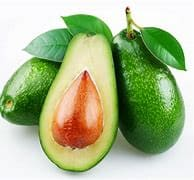
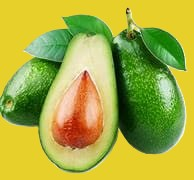
Add get to know your fruits section.

diff --git a/src/index.css b/src/index.css
@@ -28,6 +28,7 @@
 
 body {
   font-family: var(--font-asul);
+  -webkit-padding-before: 7vh;
   padding-block-start: 7vh;
 }
 
@@ -252,8 +253,10 @@ section:nth-of-type(5) img {
 
 section:nth-of-type(6) {
   background-color: var(--yellow);
+  margin-block: 0;
 }
-section:nth-of-type(6) article p{
+
+section:nth-of-type(6) article p {
   color: var(--black);
   text-shadow: 0 1px var(--dark-yellow);
 }
@@ -262,6 +265,7 @@ section:nth-of-type(2),
 section:nth-of-type(3),
 section:nth-of-type(4),
 section:nth-of-type(5) {
+  position: -webkit-sticky;
   position: sticky;
   top: -120px;
   z-index: -1;
@@ -272,6 +276,19 @@ section:nth-of-type(4),
 section:nth-of-type(5),
 section:nth-of-type(6) {
   box-shadow: 0 -1px 9px #555;
+}
+
+section.cardblock {
+  background-color: var(--white);
+  margin-block: 0;
+  min-height: 100vh;
+  padding-block: 5rem;
+
+}
+
+section.cardblock img {
+  filter: none;
+  -webkit-filter: none;
 }
 
 
@@ -411,12 +428,171 @@ section:nth-of-type(6) {
     max-width: 45ch;
   }
 
-  section:nth-of-type(2) {
+  section:nth-of-type(2),
+  section:nth-of-type(4),
+  section:nth-of-type(6) {
     flex-direction: row;
   }
 
-  section:nth-of-type(4) {
+  section:nth-of-type(6) img {
+    mix-blend-mode: darken;
+  }
+
+  section.cardblock {
+    display: flex;
+    flex-direction: column;
+    align-items: flex-start;
+    gap: 2rem;
+    padding-top: 9rem;
+  }
+
+  .cardblock h2 {
+    max-width: fit-content;
+    color: var(--bgColor);
+    text-shadow: 2px 5px 0px var(--bgColor1);
+  }
+
+  section.cardblock .cards {
+    display: flex;
     flex-direction: row;
+    flex-wrap: wrap;
+    justify-content: space-between;
+    gap: 1.5rem;
+  }
+
+  .card {
+    flex-basis: 45%;
+    padding-inline: 2rem;
+    border-radius: 25px;
+    -webkit-border-radius: 25px;
+    -moz-border-radius: 25px;
+    -ms-border-radius: 25px;
+    -o-border-radius: 25px;
+    display: flex;
+    flex-direction: column;
+    align-items: center;
+    background-color: white;
+    box-shadow: -2px 0px 3px #ccc, 2px 0px 3px #ccc;
+    gap: 1rem;
+    background-color: var(--bgColor1);
+    margin-block: 5rem;
+    position: relative;
+
+  }
+
+  .card .img {
+    height: 150px;
+    width: 150px;
+    border-radius: 50%;
+    -webkit-border-radius: 50%;
+    -moz-border-radius: 50%;
+    -ms-border-radius: 50%;
+    -o-border-radius: 50%;
+    position: relative;
+    top: -85px;
+    box-shadow: -0px 0px 0px 10px var(--white);
+    display: flex;
+    align-items: center;
+    justify-content: center;
+  }
+
+  .img::before {
+    content: '';
+    position: absolute;
+    height: 30px;
+    width: 30px;
+    top: 85px;
+    left: -32px;
+    border-top-right-radius: 25px;
+    background-color: transparent;
+    box-shadow: 5px -4px 0px var(--white);
+  }
+
+  .img::after {
+    content: '';
+    position: absolute;
+    height: 30px;
+    width: 30px;
+    top: 85px;
+    right: -32px;
+    border-top-left-radius: 25px;
+    background-color: transparent;
+    box-shadow: -5px -4px 0px var(--white);
+  }
+
+  .card .img img {
+    height: 150px;
+    width: 150px;
+    -o-object-fit: cover;
+    object-fit: cover;
+    margin: 0;
+    border: 3px solid var(--bgColor);
+    border-radius: 50%;
+    -webkit-border-radius: 50%;
+    -moz-border-radius: 50%;
+    -ms-border-radius: 50%;
+    -o-border-radius: 50%;
+  }
+
+  .card p {
+    line-height: 1.6rem;
+    word-spacing: 2px;
+    letter-spacing: 1.4px;
+    transform: translateY(-25%);
+    -webkit-transform: translateY(-25%);
+    -moz-transform: translateY(-25%);
+    -ms-transform: translateY(-25%);
+    -o-transform: translateY(-25%);
+    font-family: var(--font-unkempt);
+  }
+
+  .card h4 {
+    margin-top: auto;
+    background-color: var(--yellow);
+    box-shadow: 0 0 0 7px var(--white);
+    height: 40px;
+    display: grid;
+    place-items: center;
+    padding-inline: 2rem;
+    border-radius: 10px;
+    -webkit-border-radius: 10px;
+    -moz-border-radius: 10px;
+    -ms-border-radius: 10px;
+    -o-border-radius: 10px;
+    transform: translateY(50%);
+    -webkit-transform: translateY(50%);
+    -moz-transform: translateY(50%);
+    -ms-transform: translateY(50%);
+    -o-transform: translateY(50%);
+    font-family: var(--font-rubik);
+    color: var(--deep-green);
+    letter-spacing: 3px;
+    text-transform: uppercase;
+    position: relative;
+  }
+
+  .card h4::before {
+    content: '';
+    position: absolute;
+    background-color: transparent;
+    top: 1px;
+    left: -28px;
+    height: 20px;
+    width: 20px;
+    border-bottom-right-radius: 15px;
+    box-shadow: 5px 5px var(--white);
+  }
+
+  .card h4::after {
+    content: '';
+    position: absolute;
+    background-color: transparent;
+    top: 1px;
+    right: -28px;
+    height: 20px;
+    width: 20px;
+    border-bottom-left-radius: 15px;
+    box-shadow: -5px 5px var(--white);
   }
 
 }

diff --git a/src/constants/index.js b/src/constants/index.js
@@ -31,3 +31,22 @@ export const SECTION_SIX_PARAGRAPHS = [
   "Cooking your fruities is like giving them a mild makeover. It breaks down the troublesome proteins, making them safe for you to enjoy. Always be a label detective—sneaky fruities can hide in juices and snacks, just waiting to pounce.",
   "Finally, think of an epinephrine auto-injector as your trusty sidekick, ready to save the day if things go south. Let your friends and family know about your allergies, so they can help keep you safe. With these tips, you can enjoy a healthy diet without fear.",
 ];
+
+export const CardBlockText = {
+  avocado:
+    "Avocados are nutrient-dense fruities rich in healthy monounsaturated fats, which are beneficial for heart health. They also provide a good amount of fiber, vitamins (especially vitamin K, C, E, and several B vitamins), and minerals like potassium. Their creamy texture makes them perfect for spreads, salads, and smoothies. Plus, they have antioxidants that can help fight inflammation.",
+  banana:
+    "Bananas are a quick and nutritious snack, rich in potassium, which helps regulate blood pressure. They also provide vitamins C and B6, along with dietary fiber. Bananas support digestion, boost energy levels, and can aid in muscle recovery post-exercise. Their natural sugars make them a perfect ingredient for smoothies, cereals, and baked goods.",
+  watermelon:
+    "Watermelon is a hydrating fruity composed of over 90% water. It's rich in vitamins A and C, as well as antioxidants like lycopene, which supports heart health. Watermelon can improve hydration, promote healthy skin, and aid digestion. Enjoy it fresh, in salads, or as a refreshing juice.",
+  pawpaw:
+    "Pawpaw, or papaya, is a tropical fruity rich in vitamin C, vitamin A, and folate. It contains the enzyme papain, which aids digestion. Pawpaw supports immune function, promotes healthy skin, and can improve digestion. It's delicious when eaten fresh, in smoothies, or as part of a fruity salad.",
+  orange:
+    "Oranges are citrus fruities loaded with vitamin C, essential for immune health. They provide dietary fiber and antioxidants, which help reduce inflammation. Oranges support heart health, improve skin texture, and can lower cholesterol levels. They're perfect as a snack, in salads, or juiced.",
+  dates:
+    "Dates are sweet fruities high in natural sugars, fiber, and essential minerals like potassium, magnesium, and copper. They support digestive health, provide energy, and have antioxidants that can reduce inflammation. Dates are often enjoyed as snacks, in smoothies, or as natural sweeteners in desserts.",
+  pineapple:
+    "Pineapples are tropical fruities packed with vitamin C and manganese. They have bromelain, an enzyme that aids digestion and reduces inflammation. Pineapples can boost immunity, improve digestion, and promote healthy skin. Enjoy them fresh, in juices, or grilled for a delicious treat.",
+  coconut:
+    "Coconuts are nutrient-rich fruits offering hydrating water packed with electrolytes and flesh rich in healthy fats and fiber. They provide essential minerals, antioxidants, and versatile uses in cooking and skincare. Coconuts add tropical flavor and numerous health benefits to your diet.",
+};

diff --git a/src/components/CardBlock/CardBlock.jsx b/src/components/CardBlock/CardBlock.jsx
@@ -1,0 +1,71 @@
+import Card from "./Card";
+import { CardBlockText } from "../../constants";
+import HeadText from "../Headtext";
+
+const {
+  avocado,
+  pineapple,
+  watermelon,
+  banana,
+  orange,
+  dates,
+  pawpaw,
+  coconut,
+} = CardBlockText;
+export default function CardBlock() {
+  return (
+    <section className="cardblock">
+      <HeadText text="get to know your fruits" />
+      <div className="cards">
+        <Card
+          source="/assets/avocado.jpg"
+          alt="An avocado pear."
+          words={avocado}
+          caption="avocado"
+        />
+        <Card
+          source="/assets/banana.jpg"
+          alt="An banana"
+          words={banana}
+          caption="banana"
+        />
+        <Card
+          source="/assets/orange.jpg"
+          alt="An orange"
+          words={orange}
+          caption="orange"
+        />
+        <Card
+          source="/assets/pineapple.jpg"
+          alt="A pineapple"
+          words={pineapple}
+          caption="pineapple"
+        />
+        <Card
+          source="/assets/pawpaw.jpg"
+          alt="A pawpaw fruit"
+          words={pawpaw}
+          caption="pawpaw"
+        />
+        <Card
+          source="/assets/dates.jpg"
+          alt="Date fruits"
+          words={dates}
+          caption="dates"
+        />
+        <Card
+          source="/assets/watermelon.jpg"
+          alt="A watermelon"
+          words={watermelon}
+          caption="watermelon"
+        />
+        <Card
+          source="/assets/coconut.jpg"
+          alt="A Coconut"
+          words={coconut}
+          caption="coconut"
+        />
+      </div>
+    </section>
+  );
+}

diff --git a/src/components/CardBlock/Card.jsx b/src/components/CardBlock/Card.jsx
@@ -1,0 +1,24 @@
+import Image from "../Image";
+import Paragraph from "../Hero/Paragraph";
+import PropTypes from "prop-types";
+
+function Card({ source, alt, words, caption }) {
+  return (
+    <div className="card">
+      <div className="img">
+        <Image source={source} altText={alt} />
+      </div>
+      <Paragraph words={words} />
+      <h4>{caption}</h4>
+    </div>
+  );
+}
+
+Card.propTypes = {
+  source: PropTypes.string,
+  alt: PropTypes.string,
+  words: PropTypes.string,
+  caption: PropTypes.string,
+};
+
+export default Card;

diff --git a/index.html b/index.html
@@ -3,7 +3,7 @@
 
 <head>
   <meta charset="UTF-8" />
-  <link rel="icon" type="image/svg+xml" href="./public/assets/img7.png" />
+  <link rel="icon" type="image/svg+xml" href="/assets/mango.png" />
   <meta name="viewport" content="width=device-width, initial-scale=1.0" />
   <meta name="description" content="Importance of fruit consumption for daily living">
   <title>FruityDOM  |  You need more fruits daily!</title>

diff --git a/src/components/Section/AllSections.jsx b/src/components/Section/AllSections.jsx
@@ -45,7 +45,7 @@ export default function AllSections() {
       />
       <Section
         source="assets/mango.png"
-        altText="A sliced mango"
+        altText="three apples"
         sectionParagraph={SECTION_SIX_PARAGRAPHS}
         text="handling fruity allergies"
       />

diff --git a/src/components/App.jsx b/src/components/App.jsx
@@ -1,11 +1,13 @@
 import Hero from "./Hero/Hero";
 import AllSections from "./Section/AllSections";
+import CardBlock from "./CardBlock/CardBlock";
 
 function App() {
   return (
     <>
       <Hero />
       <AllSections />
+      <CardBlock />
     </>
   );
 }
